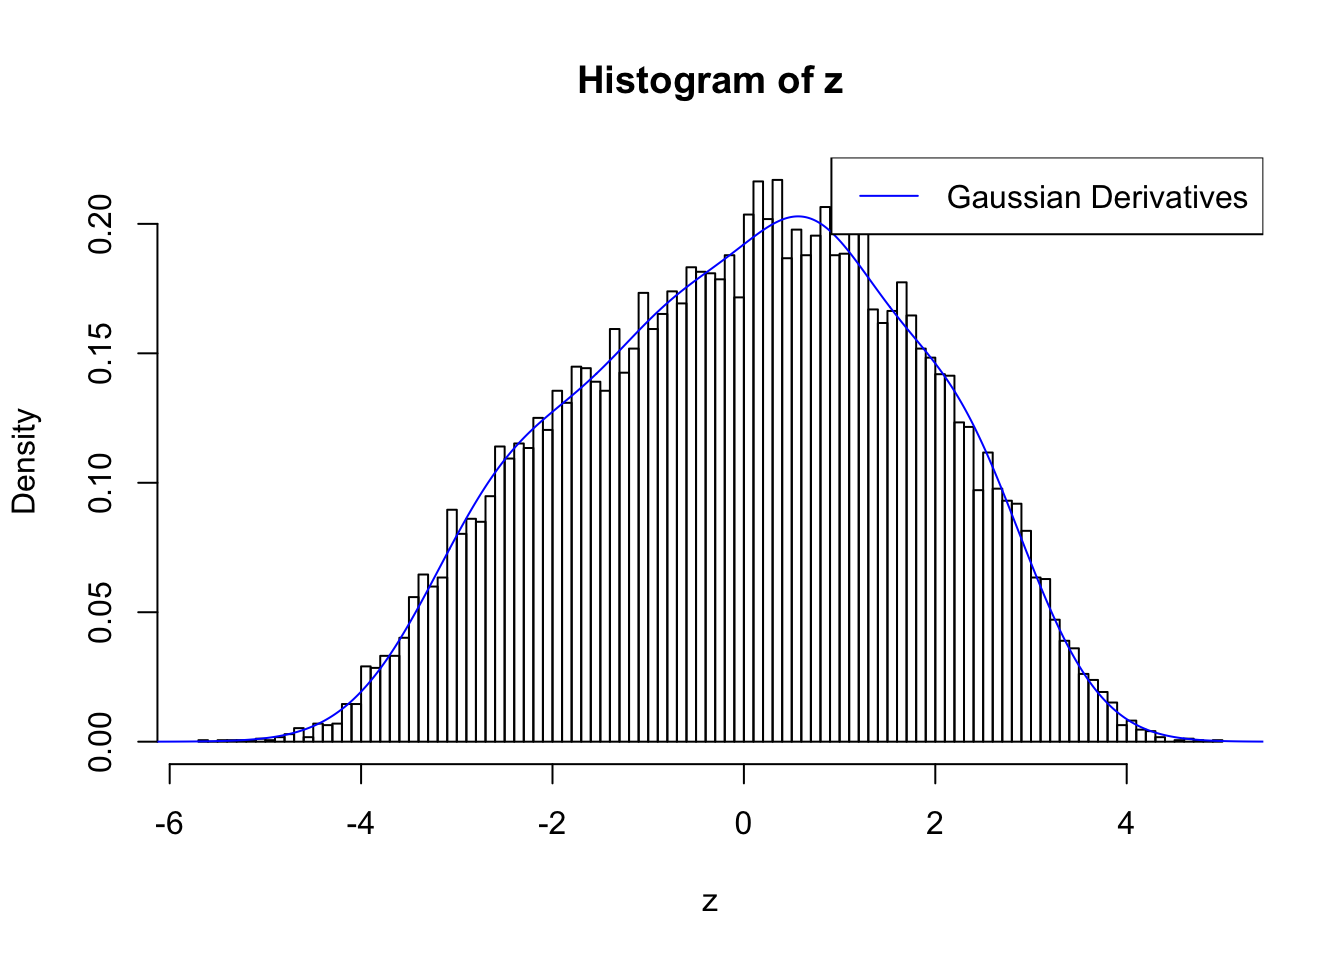
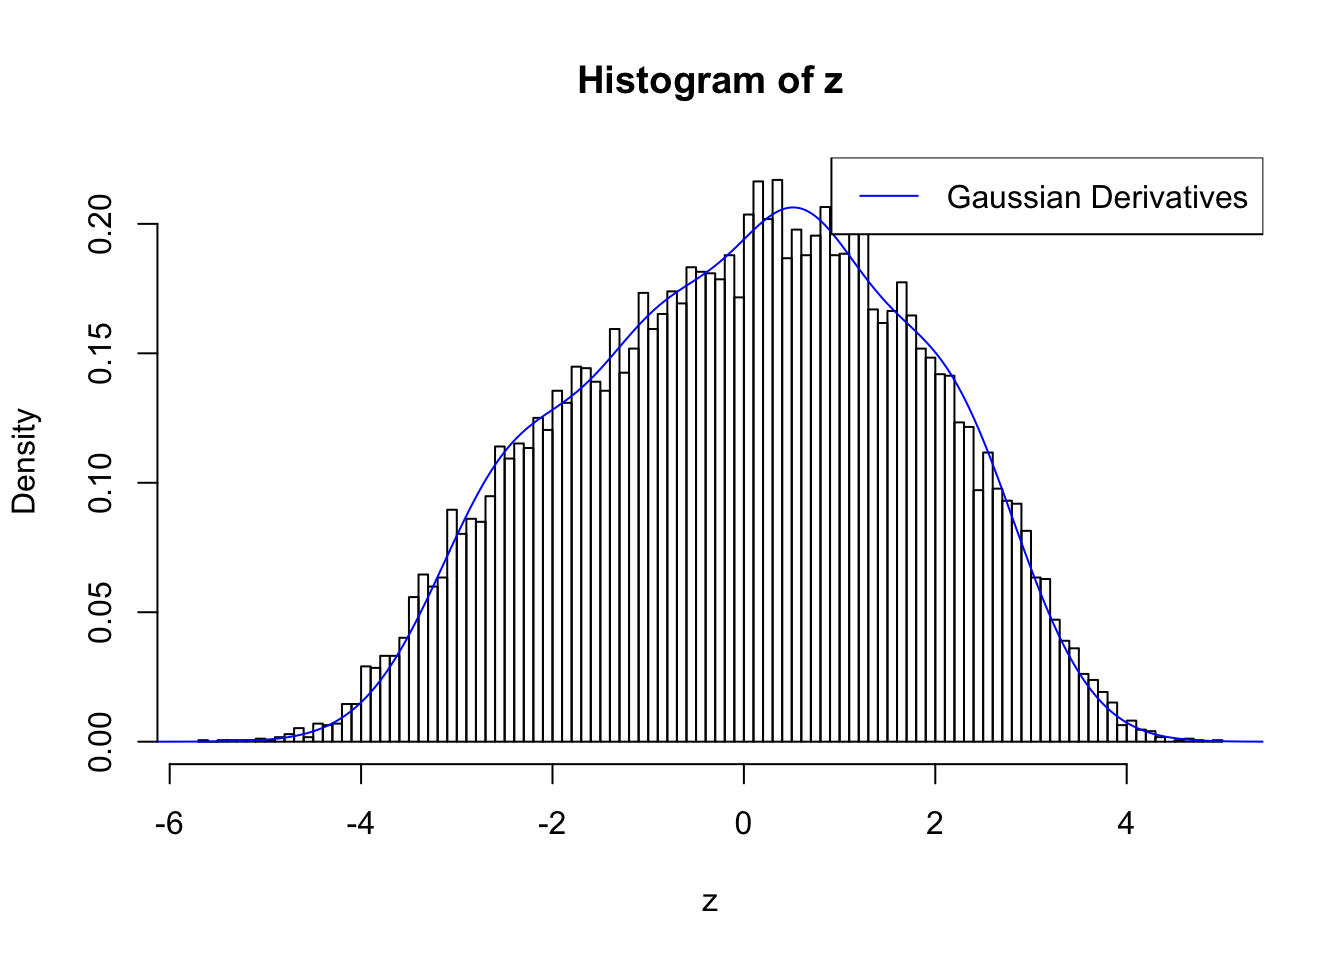
Build site.

diff --git a/docs/smemo_2.html b/docs/smemo_2.html
@@ -332,7 +332,7 @@ div.section {
 </div>
 
 
-<p><strong>Last updated:</strong> 2018-09-05</p>
+<p><strong>Last updated:</strong> 2018-10-05</p>
 <strong>workflowr checks:</strong> <small>(Click a bullet for more information)</small>
 <ul>
 <li>
@@ -361,7 +361,7 @@ div.section {
 </li>
 <li>
 <details>
-<p><summary> <strong style="color:blue;">✔</strong> <strong>Repository version:</strong> <a href="https://github.com/LSun/truncash/tree/653748bf8ec65226b766a4e86f00b9527bd118bf" target="_blank">653748b</a> </summary></p>
+<p><summary> <strong style="color:blue;">✔</strong> <strong>Repository version:</strong> <a href="https://github.com/LSun/truncash/tree/dce4d3b48aa605a84f06e75bb3a74eb8094debad" target="_blank">dce4d3b</a> </summary></p>
 Great! You are using Git for version control. Tracking code development and connecting the code version to the results is critical for reproducibility. The version displayed above was the version of the Git repository at the time these results were generated. <br><br> Note that you need to be careful to ensure that all relevant files for the analysis have been committed to Git prior to generating the results (you can use <code>wflow_publish</code> or <code>wflow_git_commit</code>). workflowr only checks the R Markdown file, but you know if there are other scripts or data files that it depends on. Below is the status of the Git repository when the results were generated:
 <pre><code>
 Ignored files:
@@ -387,6 +387,7 @@ Ignored files:
     Ignored:    analysis/cash_fdr_4_cache/
     Ignored:    analysis/cash_fdr_5_cache/
     Ignored:    analysis/cash_fdr_6_cache/
+    Ignored:    analysis/cash_paper_fig_leukemia_cache/
     Ignored:    analysis/cash_plots_2_cache/
     Ignored:    analysis/cash_plots_3_cache/
     Ignored:    analysis/cash_plots_cache/
@@ -462,13 +463,6 @@ Ignored files:
     Ignored:    docs/figure/.DS_Store
     Ignored:    output/fig/
 
-Untracked files:
-    Untracked:  analysis/cash_plots_3.rmd
-    Untracked:  docs/figure/cash_plots_3.rmd/
-
-Unstaged changes:
-    Modified:   code/count_to_summary.R
-
 </code></pre>
 Note that any generated files, e.g. HTML, png, CSS, etc., are not included in this status report because it is ok for generated content to have uncommitted changes.
 </details>
@@ -498,6 +492,40 @@ Message
 </tr>
 </thead>
 <tbody>
+<tr>
+<td style="text-align:left;">
+rmd
+</td>
+<td style="text-align:left;">
+<a href="https://github.com/LSun/truncash/blob/dce4d3b48aa605a84f06e75bb3a74eb8094debad/analysis/smemo_2.rmd" target="_blank">dce4d3b</a>
+</td>
+<td style="text-align:left;">
+Lei Sun
+</td>
+<td style="text-align:left;">
+2018-10-05
+</td>
+<td style="text-align:left;">
+smemo
+</td>
+</tr>
+<tr>
+<td style="text-align:left;">
+html
+</td>
+<td style="text-align:left;">
+<a href="https://cdn.rawgit.com/LSun/truncash/07bc761dacb155d52d6ecf2f8d8aabfdc8757989/docs/smemo_2.html" target="_blank">07bc761</a>
+</td>
+<td style="text-align:left;">
+LSun
+</td>
+<td style="text-align:left;">
+2018-09-05
+</td>
+<td style="text-align:left;">
+Build site.
+</td>
+</tr>
 <tr>
 <td style="text-align:left;">
 rmd
@@ -766,7 +794,7 @@ z &lt;- summary$z</code></pre>
 <h2>Fitting <span class="math inline">\(z\)</span> with Gaussian derivatives</h2>
 <p>With stretch GD can fit <span class="math inline">\(z\)</span> scores, but it seems there should be signals.</p>
 <pre><code>GD Coefficients:</code></pre>
-<pre><code>0 : 1 ; 1 : 0.0119430018126296 ; 2 : 1.61071078428823 ; 3 : 0.366170906281441 ; 4 : 1.70110410088524 ; 5 : 0.676196157715947 ; 6 : 0.938754567209366 ; 7 : 0.550191966323002 ; 8 : 0.238942600379678 ; 9 : 0.161306266269737 ; 10 : 0.0430996146907588 ;</code></pre>
+<pre><code>0 : 1 ; 1 : 9.38194912994929e-05 ; 2 : 1.5379335123459 ; 3 : 0.292831264364913 ; 4 : 1.43125454770929 ; 5 : 0.470871356054445 ; 6 : 0.541466442665842 ; 7 : 0.277227258172747 ; 8 : -9.35856044783229e-07 ; 9 : 0.0205987809594603 ; 10 : -3.85399012090005e-08 ;</code></pre>
 <p><img src="figure/smemo_2.rmd/fitting%20gaussian%20derivatives-1.png" width="672" style="display: block; margin: auto;" /></p>
 <details>
 <summary><em>Expand here to see past versions of fitting gaussian derivatives-1.png:</em></summary>
@@ -992,10 +1020,42 @@ t = r.ebayes$t[, 2]
 z = -sign(t) * qnorm(p/2)</code></pre>
 <pre class="r"><code>fit.locfdr &lt;- locfdr(z)</code></pre>
 <p><img src="figure/smemo_2.rmd/analysis-1.png" width="672" style="display: block; margin: auto;" /></p>
+<details>
+<summary><em>Expand here to see past versions of analysis-1.png:</em></summary>
+<table style = "border-collapse:separate; border-spacing:5px;">
+<thead>
+<tr>
+<th style="text-align:left;">
+Version
+</th>
+<th style="text-align:left;">
+Author
+</th>
+<th style="text-align:left;">
+Date
+</th>
+</tr>
+</thead>
+<tbody>
+<tr>
+<td style="text-align:left;">
+<a href="https://github.com/LSun/truncash/blob/07bc761dacb155d52d6ecf2f8d8aabfdc8757989/docs/figure/smemo_2.rmd/analysis-1.png" target="_blank">07bc761</a>
+</td>
+<td style="text-align:left;">
+LSun
+</td>
+<td style="text-align:left;">
+2018-09-05
+</td>
+</tr>
+</tbody>
+</table>
+</details>
 <pre class="r"><code>fit.qvalue &lt;- qvalue::qvalue(p)</code></pre>
 <pre class="r"><code>betahat = lim$coefficients[, 2]
 sebetahat = betahat / z
-fit.cash &lt;- gdash(betahat, sebetahat, gd.ord = 10)</code></pre>
+fit.cash &lt;- gdash(betahat, sebetahat, gd.ord = 10)
+fit.ash &lt;- ashr::ash(betahat, sebetahat, mixcompdist = &quot;normal&quot;, method = &quot;fdr&quot;)</code></pre>
 <pre class="r"><code>x.plot &lt;- seq(-10, 10, length = 1000)
 gd.ord &lt;- 10
 hermite = Hermite(gd.ord)
